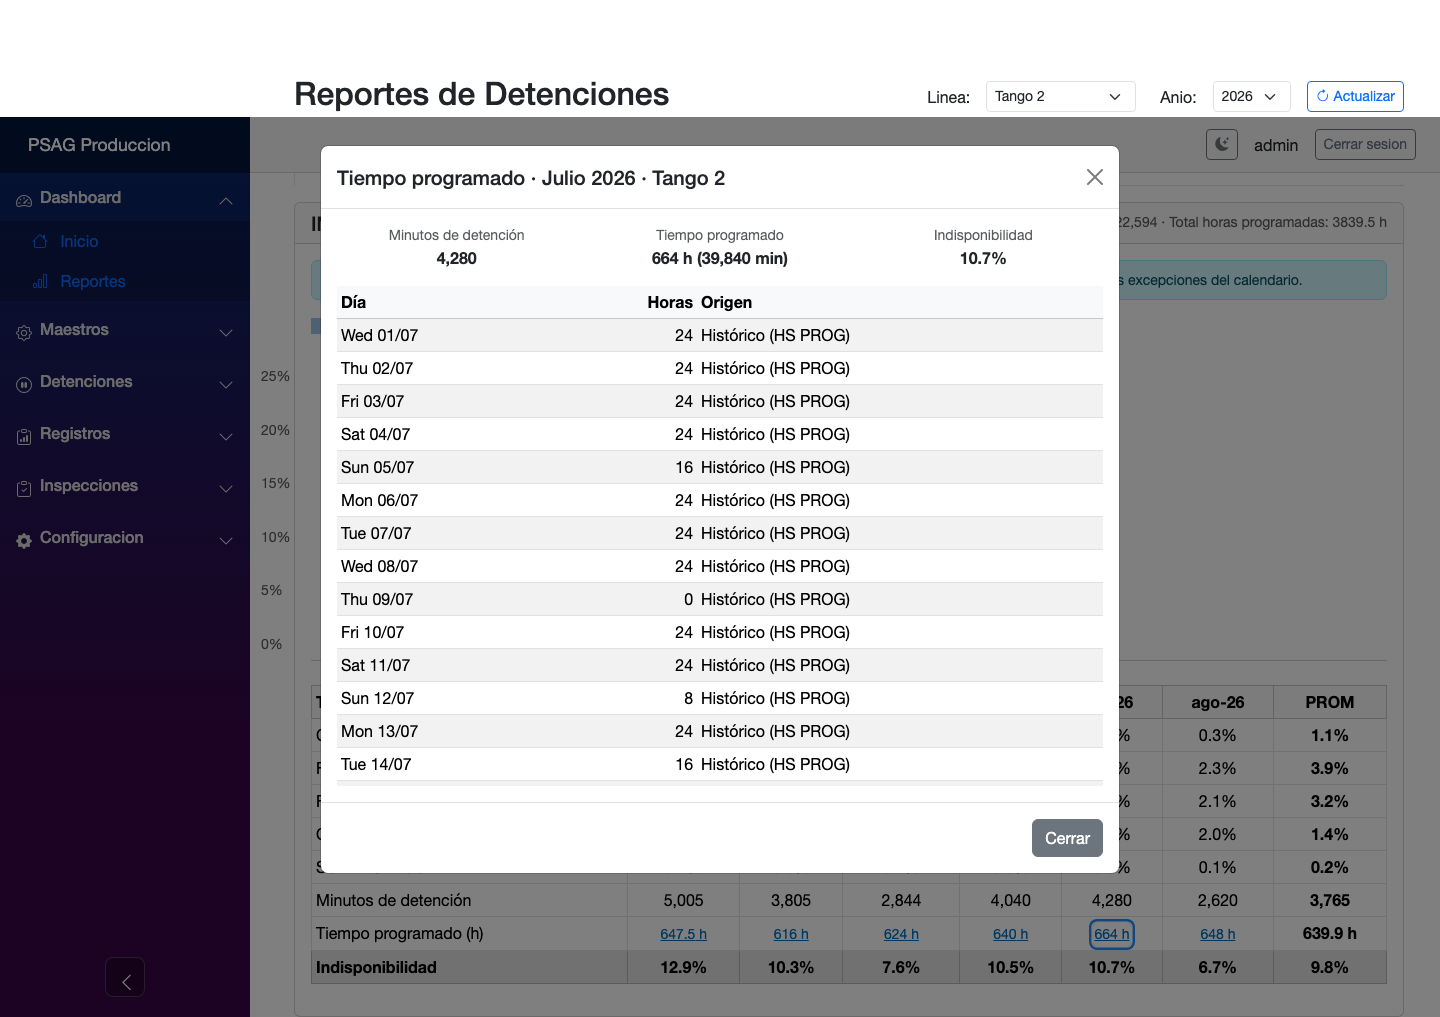
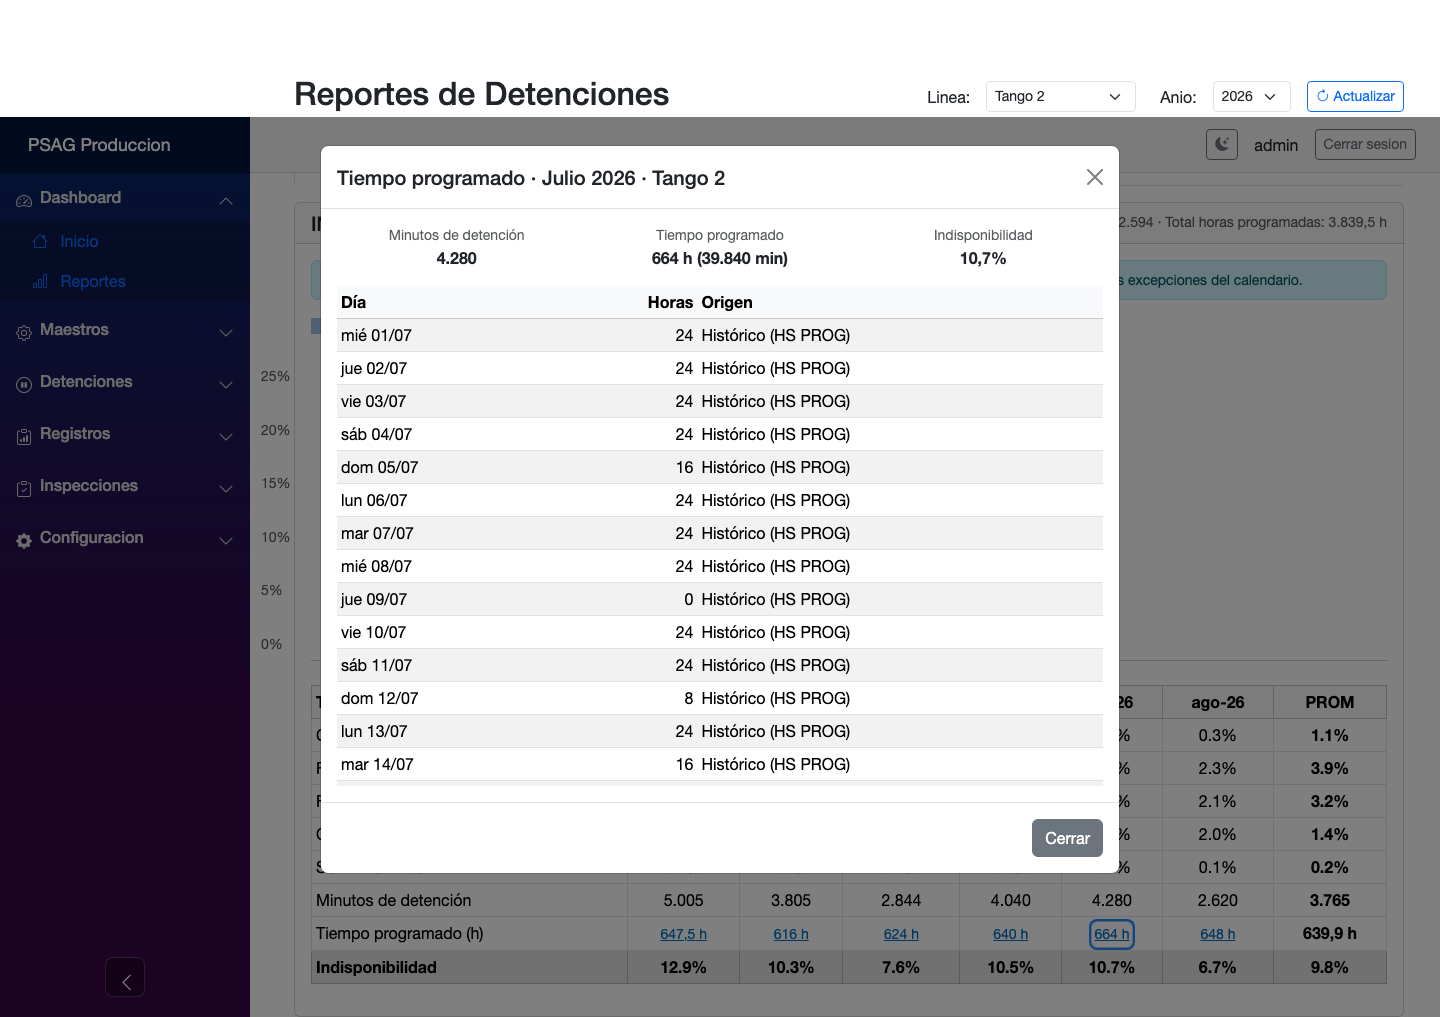
fix(reportes): días y números en castellano
Los elementos agregados en U1 usan formato es-AR de forma explícita: días del
modal ("mié 01/07") y números del encabezado, las filas de minutos y tiempo
programado, y el resumen del modal ("3.839,5 h", "4.280"). La cultura de la app
no cambia, y los porcentajes y totales preexistentes quedan igual.

Changed region(s): [[0.4688, 0.2743, 0.5938, 0.762], [0.2188, 0.3048, 0.2812, 0.762], [0.7812, 0.2134, 0.9375, 0.2439]]

diff --git a/01.Ajustes/29092026 T-76/registro-U1.md b/01.Ajustes/29092026 T-76/registro-U1.md
@@ -11,7 +11,15 @@ Nada está mergeado, desplegado ni publicado. Solo commits locales en `t76-u1`.
 | 2ceb344 | feat(app): tiempo programado real en indisponibilidad y fallos mayores |
 | 149b48f | feat(web): reportes con tiempo programado, colores del maestro y Pareto por mes |
 | 71cb208 | feat(db): script 18 con tiempo programado histórico de Tango 2 |
-| (este) | docs(t76): registro de la unidad U1 y capturas |
+| eb1f540 | docs(t76): registro de la unidad U1 y capturas |
+| (este) | fix(reportes): días y números en castellano |
+
+## Corrección tras la revisión del coordinador
+
+- **Días en castellano.** El modal muestra "mié 01/07" y no "Wed 01/07". Se usa `CultureInfo("es-AR")` explícito en el formato. La cultura de la app no cambió.
+- **Números en es-AR, solo en lo agregado por U1.** Encabezado ("22.594 · 3.839,5 h"), filas "Minutos de detención" y "Tiempo programado (h)" y resumen del modal. Los helpers `FormatoHoras` (`#,##0.#`) y `FormatoMinutos` (`N0`) ya usan la cultura explícita.
+- **Sin cambios en lo preexistente.** Porcentajes y totales de tablas y gráficos de indisponibilidad, fallos y Pareto siguen con la cultura de la app. En la app local esa cultura se ve en-US: la misma pantalla muestra "10,7%" en el modal y "10.7%" en la tabla. Unificar la cultura es una decisión aparte.
+- **Capturas.** Se re-tomaron las cuatro y se revisaron 01 y 02. El modal muestra "mié", "4.280" y "664 h (39.840 min)".
 
 ## Antes y después (Tango 2, 2026)
 
@@ -64,7 +72,7 @@ Marzo coincide con el criterio del brief: 5.005 min / (647,5 h × 60) = 12,9 %.
 | Indisponibilidad | `GET /api/dashboard/indisponibilidad?anio=2026&lineaId=7` con la base cargada | Marzo 12,9 % (5.005 / 38.850 min). Resto de meses en la tabla de arriba | API real (SQLite) |
 | Modal por día | `GET /api/dashboard/tiempo-programado?lineaId=7&anio=2026&mes=m` para m = 3 a 8 | Suma de horas igual a la fila del reporte en los seis meses (647,5 / 616 / 624 / 640 / 664 / 648) | API real (SQLite) |
 | Mes inválido | `mes=13` | 400 | API real |
-| Pantalla | Playwright headless: Tango 2, modal de julio, Fallos Mayores, Pareto con agosto | 4 capturas, sin errores de consola | Pantalla real |
+| Pantalla | Playwright headless: Tango 2, modal de julio, Fallos Mayores, Pareto con agosto (re-tomadas tras la corrección de formato) | 4 capturas, sin errores de consola | Pantalla real |
 | Errores de API | `grep "responded 500" api-5301.log` | 0 | API real |
 | Datos del script 18 | Valores del SQL contra el Excel y contra la base local | 173 días, 0 diferencias con la base local. Totales por mes iguales al Excel (mar 647,5) | Datos |
 | Script 18 en motor | No se ejecutó en SQL Server | **NO VERIFICADO** a nivel motor. U0 no pudo levantar SQL Server en Docker | Sin motor |
@@ -95,6 +103,6 @@ Comandos del script: `database/tools/generar_18_tiempo_programado.py "<Historial
 ## Capturas
 
 - `capturas/U1/01-indisponibilidad.png`: Tango 2, 2026, con la fila de tiempo programado y la fórmula.
-- `capturas/U1/02-modal-tiempo-programado.png`: modal de julio, 664 h.
+- `capturas/U1/02-modal-tiempo-programado.png`: modal de julio, 664 h, días en castellano.
 - `capturas/U1/03-fallos-mayores.png`: colores del maestro (en la prueba) y paleta de respaldo.
 - `capturas/U1/04-pareto-agosto.png`: Pareto con Mes = Agosto, total 2.620 min.
